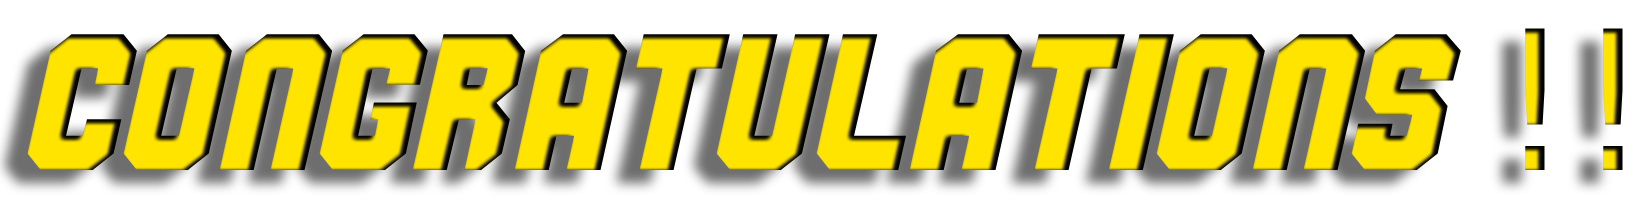
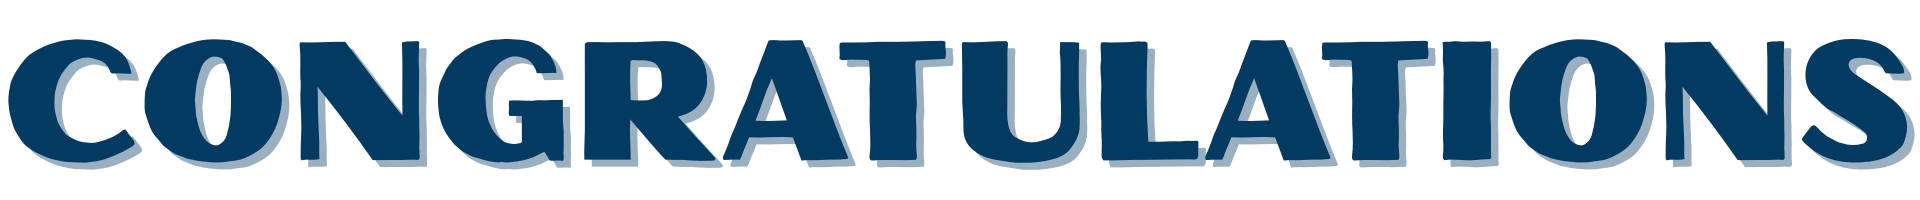
mike led display for street dancing

diff --git a/resources/views/led_display/streetDancing.blade.php b/resources/views/led_display/streetDancing.blade.php
@@ -5,14 +5,16 @@
     <meta charset="UTF-8">
     <meta name="viewport" content="width=device-width, initial-scale=1.0">
 
-    <link href="https://cdn.jsdelivr.net/npm/bootstrap@5.0.2/dist/css/bootstrap.min.css" rel="stylesheet" integrity="sha384-EVSTQN3/azprG1Anm3QDgpJLIm9Nao0Yz1ztcQTwFspd3yD65VohhpuuCOmLASjC" crossorigin="anonymous">
+    <link href="https://cdn.jsdelivr.net/npm/bootstrap@5.0.2/dist/css/bootstrap.min.css" rel="stylesheet"
+        integrity="sha384-EVSTQN3/azprG1Anm3QDgpJLIm9Nao0Yz1ztcQTwFspd3yD65VohhpuuCOmLASjC" crossorigin="anonymous">
+    <link href="https://fonts.googleapis.com/css2?family=Anton&display=swap" rel="stylesheet">
     <title>Street Dancing</title>
     <style>
         body {
             margin: 0;
             padding: 0;
             height: 100vh;
-            background: #fcf0cf;
+            background: #fffbf1;
             /* fallback color */
             position: relative;
             overflow: hidden;
@@ -27,15 +29,41 @@
             height: 100%;
             background: url("{{ asset('img/higalaay2025.gif') }}") no-repeat center center fixed;
             background-size: cover;
-            opacity: 0.2;
+            opacity: 0.1;
             /* adjust opacity 0 → 1 */
             z-index: -1;
             /* keeps it behind content */
         }
 
         .logo {
-            height: 160px;
+            height: 250px;
+            margin-top: 2%;
             /* adjust size here */
+        }
+
+        .rise-logo {
+            height: 180px;
+            /* adjust only this */
+        }
+
+        .higalaay-logo {
+            height: 300px;
+        }
+
+        .footer-logo {
+            position: fixed;
+            bottom: 0;
+            height: 250px;
+            width: auto;
+            z-index: 1000;
+        }
+
+        .footer-left {
+            left: 0;
+        }
+
+        .footer-right {
+            right: 0;
         }
 
         .container {
@@ -66,6 +94,11 @@
             height: auto;
             z-index: 1;
         }
+
+        .card {
+            background-color: #a0a0a021;
+            border: none;
+        }
     </style>
 </head>
 
@@ -77,11 +110,12 @@
     <!-- Top Right -->
     <img src="{{ asset('img/confettir.png') }}" class="corner-img position-fixed" style="top: 10px; right: 10px;"> --}}
 
+    @if ($participants && $participants->count() > 0)
 
-
-    <div class="wrapper">
-        @for ($i = 0; $i < 150; $i++)
-            <div class="confetti" style="
+        <div class="wrapper">
+            @for ($i = 0; $i < 150; $i++)
+                <div class="confetti"
+                    style="
                 left: {{ rand(0, 100) }}%;
                 width: {{ rand(10, 16) }}px; 
                 height: {{ rand(4, 8) }}px;   
@@ -90,63 +124,83 @@
                 animation-delay: {{ rand(0, 5) }}s;
                 transform: rotate({{ rand(0, 360) }}deg);
              ">
-            </div>
-        @endfor
-    </div>
+                </div>
+            @endfor
+        </div>
+
+    @endif
 
 
-    <div class="container">
+    <div class="container-fluid">
         <div class="content">
+            @php
+                $image = ['img/grandchamp.png', 'img/1runner-up.png', 'img/2runner-up.png'];
+
+            @endphp
+            @if (isset($position) && $position && $position != null)
+                @php
+                    $position = $position - 1;
+                    $image = [$image[$position]];
+
+                @endphp
+            @endif
+
+
             <div class="row">
                 <div class="d-flex justify-content-center align-items-center gap-3">
                     <img src="{{ asset('img/cdo-seal.png') }}" alt="CDO Seal" class="img-fluid logo">
                     <img src="{{ asset('img/logo1.png') }}" alt="Logo 1" class="img-fluid logo">
-                    <img src="{{ asset('img/higalaay.png') }}" alt="Higalaay 2025" class="img-fluid logo">
-                    <img src="{{ asset('img/risedako.png') }}" alt="Rise Big" class="img-fluid logo">
+                    <img src="{{ asset('img/higalaay2025.gif') }}" alt="Higalaay 2025"
+                        class="img-fluid logo higalaay-logo">
+                    <img src="{{ asset('img/risedako.png') }}" alt="Rise Big" class="img-fluid logo rise-logo">
                 </div>
             </div>
+            {{-- <div class="row mt-2">
+                <div class="d-flex justify-content-center align-items-center gap-3">
+                    <img src="{{ asset('img/congrats.png') }}" alt="CDO Seal" class="img-fluid logo"
+                        style="height: 90px; width: auto;">
+                </div>
+            </div> --}}
 
-            <div class="row mt-5">
+
+
+            <div class="row mt-3">
                 <div class="card-body d-flex align-items-center justify-content-center">
-                    <div class="container">
-                        @php
-                            $image = ['img/1st.png', 'img/2nd.png', 'img/3rd.png'];
-                            $color = ['#ebba64', '#aaaaaa', '#5d412d'];
-                            $font = ['70px', '60px', '50px'];
-                        @endphp
-                        @if (isset($position) && $position && $position != null)
-                            @php
-                                $position = $position - 1;
-                                $image = [$image[$position]];
-                                $font = [$font[$position]];
-                                $color = [$color[$position]];
-                            @endphp
-                        @endif
+                    <div class="container-fluid">
+
                         <div style="height: 100%;">
                             @foreach ($participants as $index => $item)
-                                <div class="row mb-3 justify-content-center align-items-center bg-white rounded" style="min-height: 200px;">
-                                    <div class="col-md-2 d-flex align-items-center justify-content-center">
-                                        <img src="{{ $image[$index] }}" class="img-fluid" style="max-height: 120px;" alt="1st Place">
+                                <div class="row mt-2">
+                                    <div class="d-flex justify-content-center align-items-center gap-3">
+                                        <img src="{{ $image[$index] }}" alt="CDO Seal" class="img-fluid logo"
+                                            style="height: 130px; width: auto;">
                                     </div>
-                                    <div class="col-md-10 d-flex align-items-center">
-                                        <div class="col-md-2 fw-bold" style="font-size: {{ $font[$index] }}; color:{{ $color[$index] }};">
-                                            #{{ $item->participant_no }}
+                                </div>
+                                <div class="row mb-3 justify-content-center">
+                                    <div class="col-md-10 d-flex flex-column justify-content-center align-items-center rounded"
+                                        style="min-height: 200px; text-align: center;">
+
+                                        <div class="fw-bold"
+                                            style="font-size: 11rem; color: #033A62; line-height:240px; font-family: 'Anton'; text-shadow: 8px 8px #c4c1c1;">
+                                            {{ $item->participant }}
                                         </div>
-                                        <div class="col-md-7 fw-bold" style="font-size: {{ $font[$index] }}; color:{{ $color[$index] }};">
-                                            <div style="color: {{ $color[$index] }}; text-decoration: none; font-size: {{ $font[$index] }};">
-                                                <i>{{ $item->participant }}</i>
-                                            </div>
-                                        </div>
-                                        <div class="col fw-bold" style="font-size: {{ $font[$index] }}; color:{{ $color[$index] }};">
-                                            {{ bong_format($item->averageHigalaay($led?->category)) }}
-                                        </div>
+
+
                                     </div>
                                 </div>
                             @endforeach
                         </div>
+
+
+
                     </div>
                 </div>
             </div>
+
+            <img src="{{ asset('img/footer-left.png') }}" alt="CDO Seal" class="img-fluid footer-logo footer-left">
+
+            <img src="{{ asset('img/footer-right.png') }}" alt="CDO Seal" class="img-fluid footer-logo footer-right">
+
         </div>
     </div>
 
